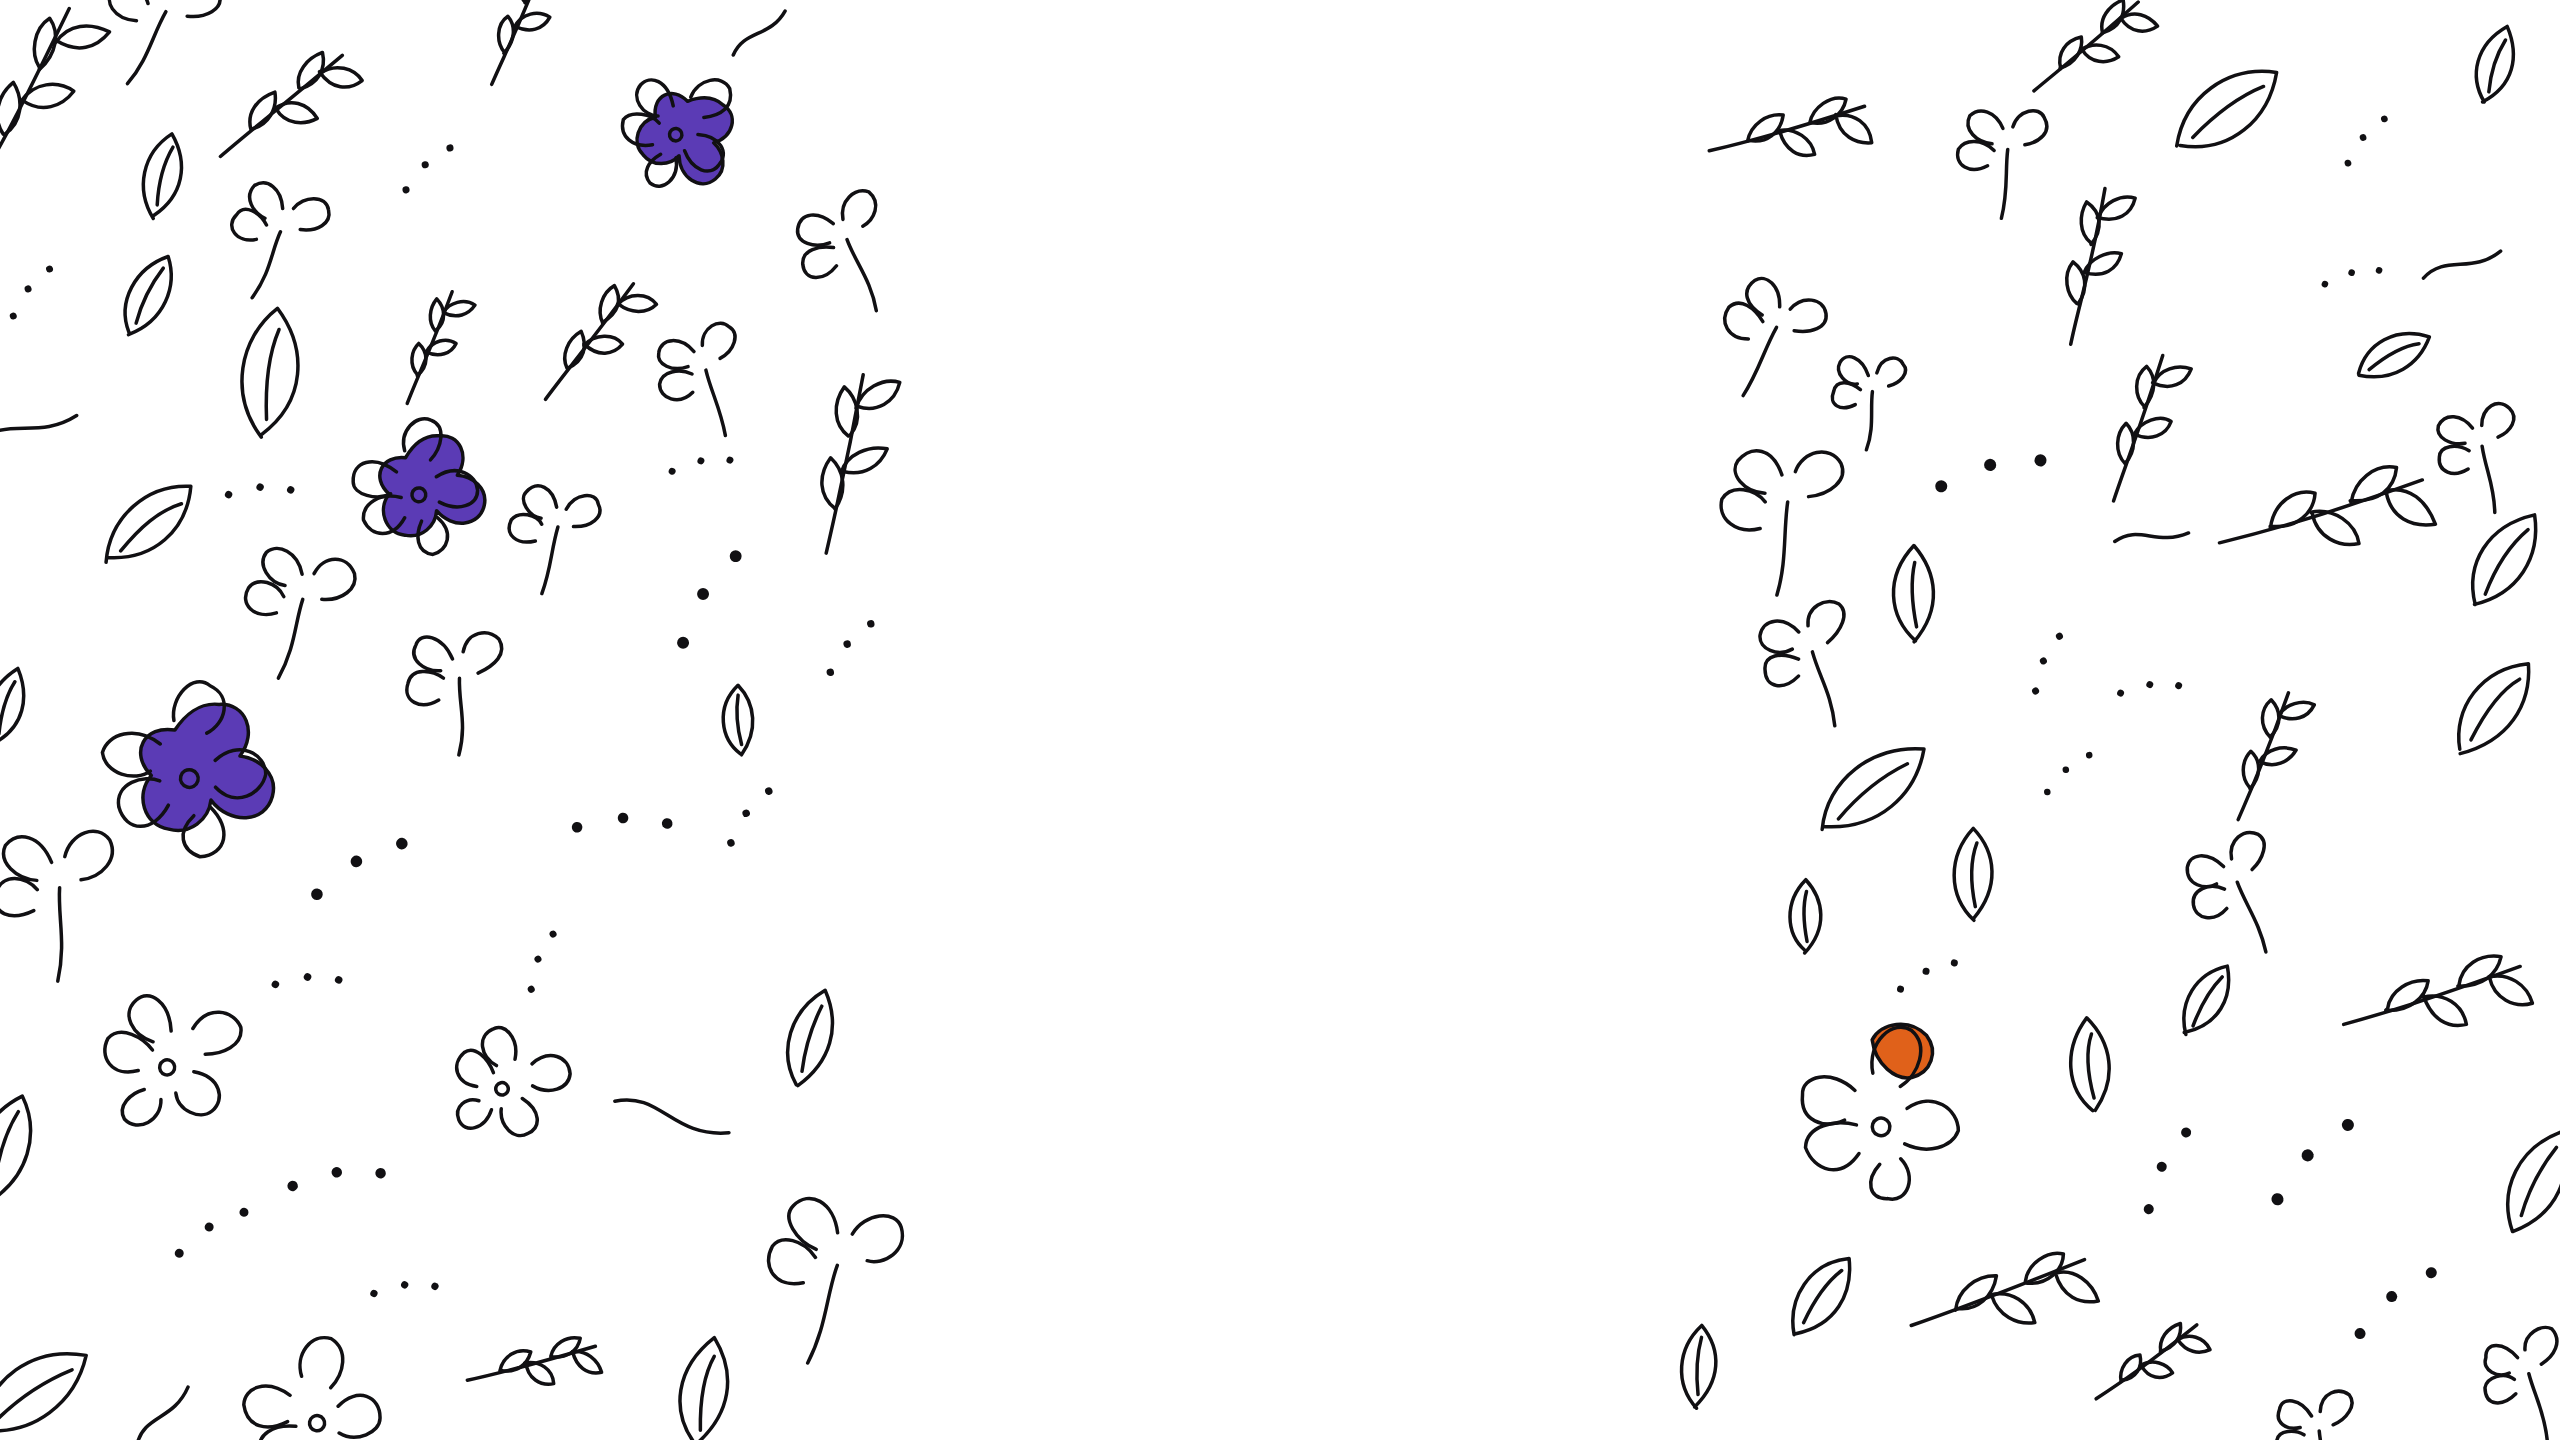
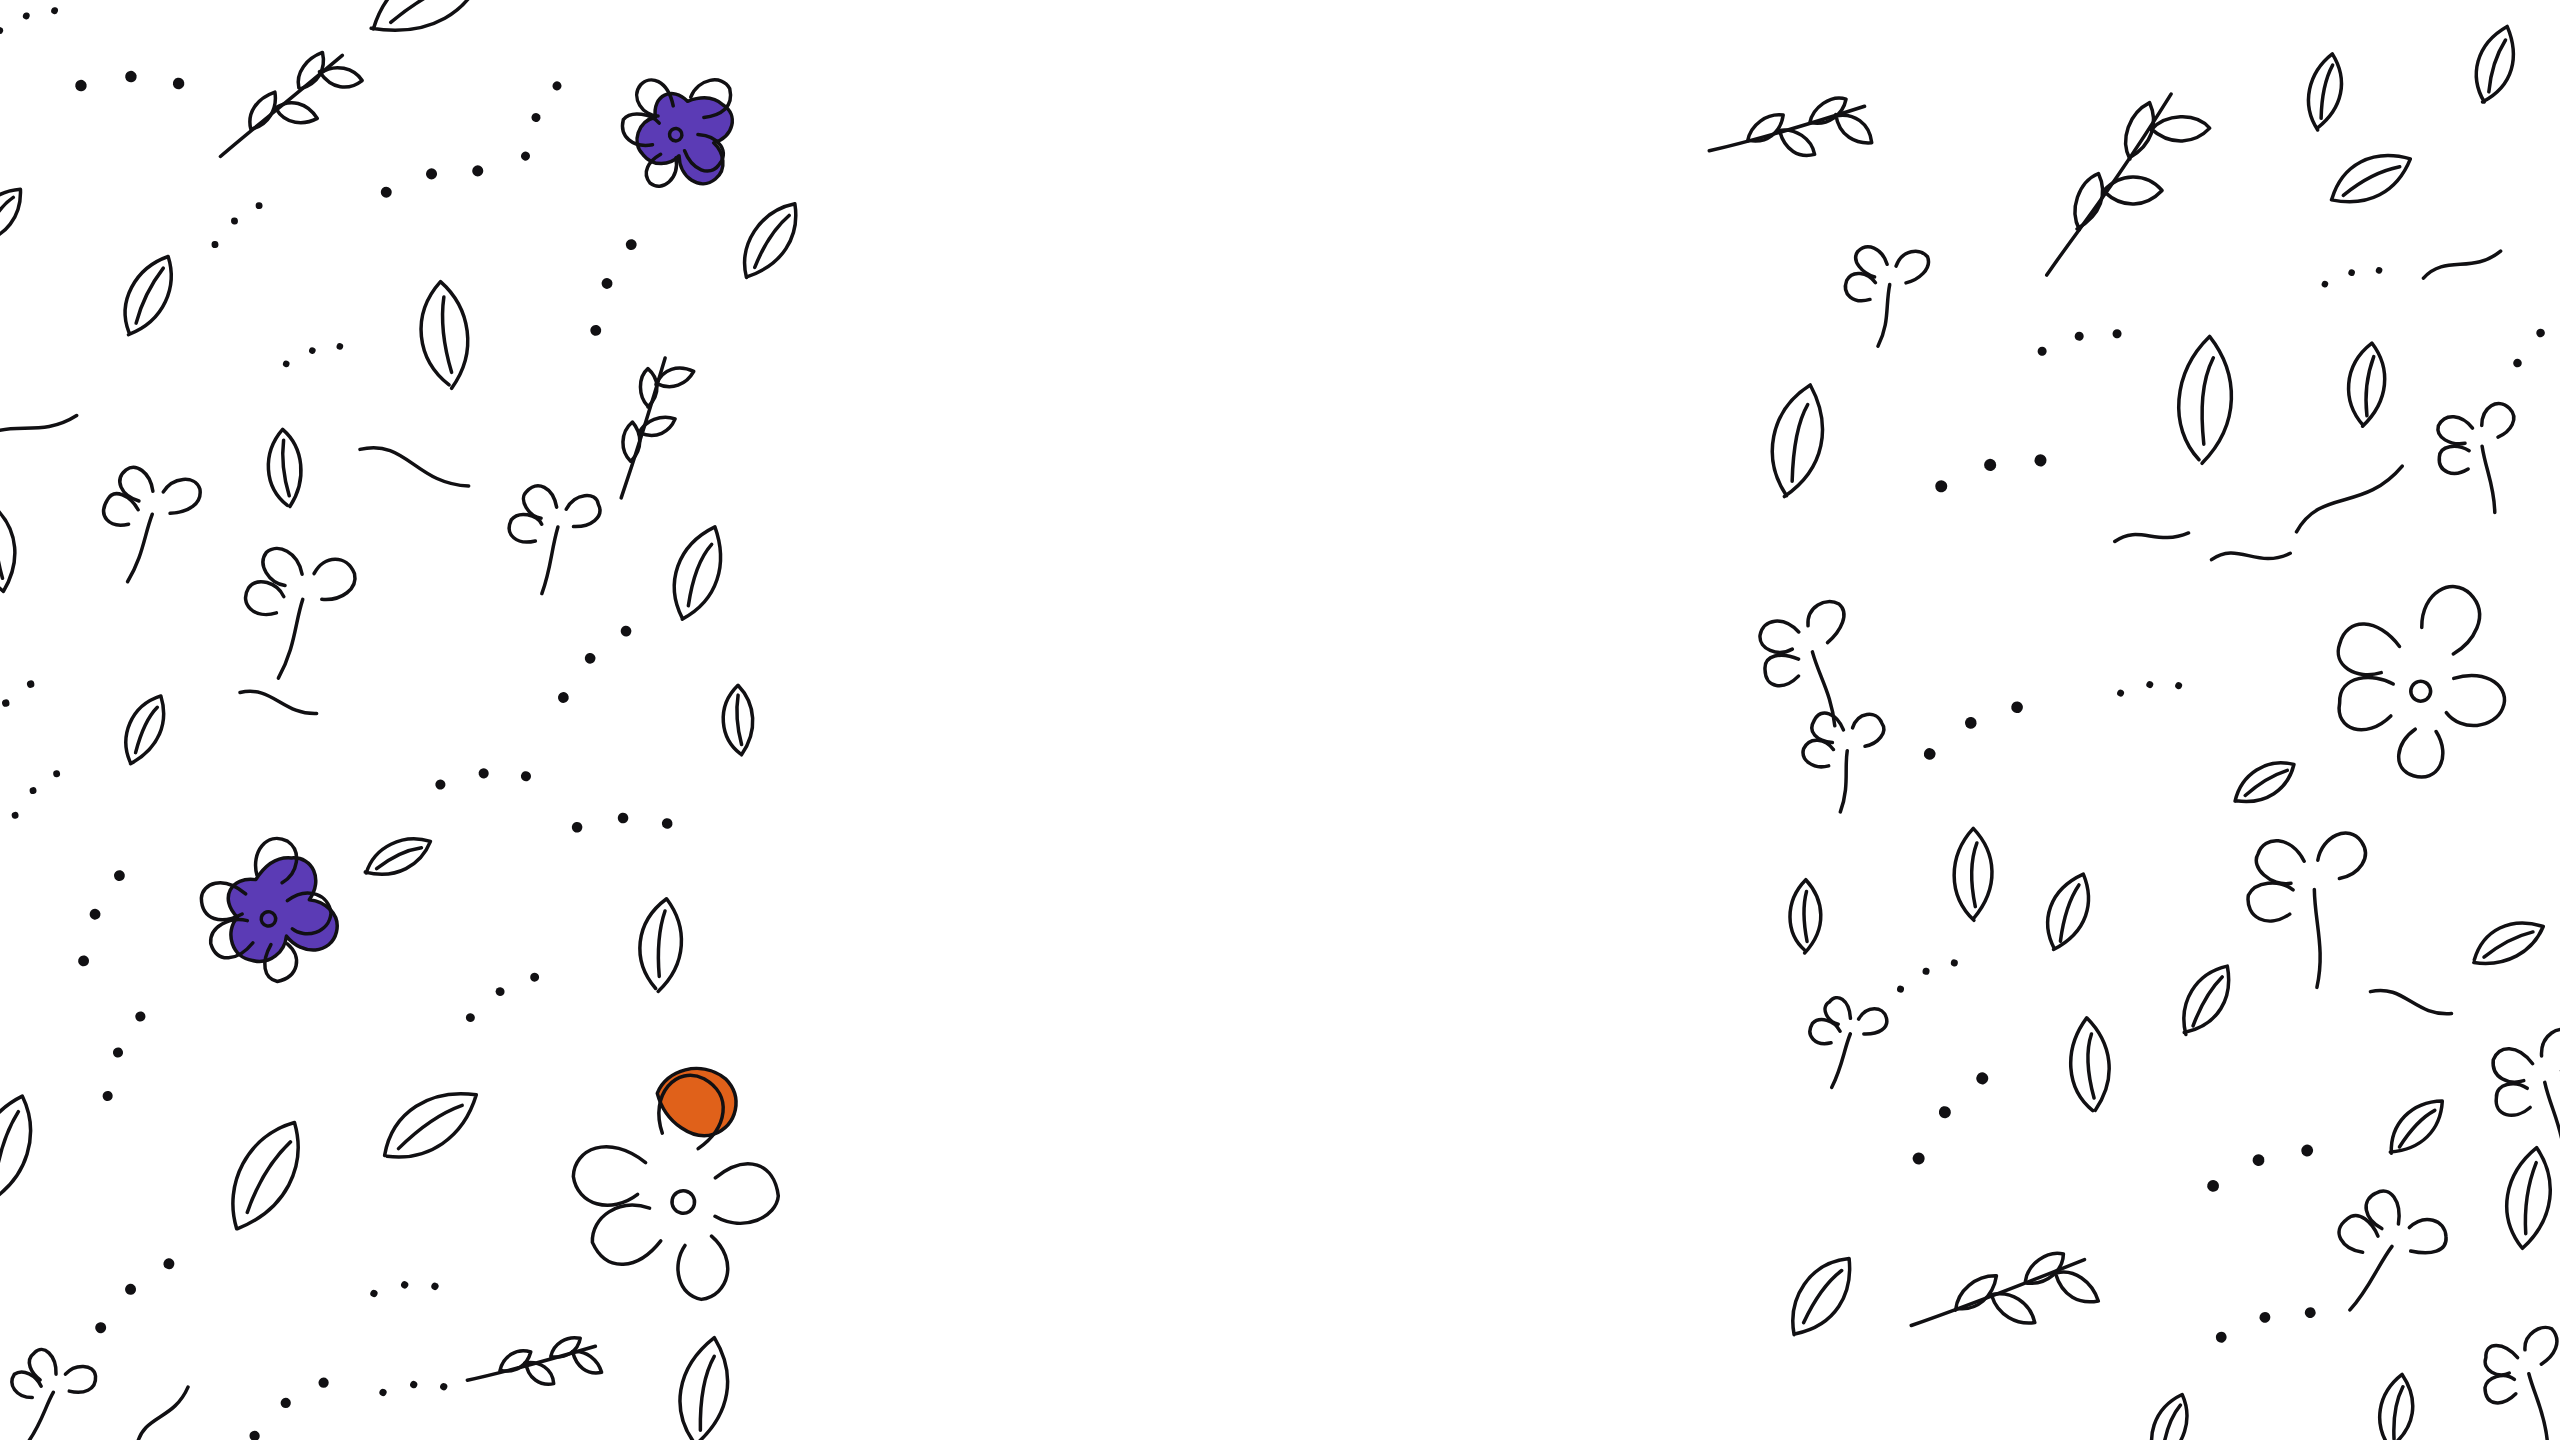
Laranda: imágenes de calificación (0–5 flores) y doodle con centro libre de 1000 px
Claude-Session: https://claude.ai/code/session_0139TfWapUP1QyepGUZapXLH

diff --git a/.fruti/icons/laranda/calificacion/gen.py b/.fruti/icons/laranda/calificacion/gen.py
@@ -1,0 +1,21 @@
+# Calificación en flores de Laranda: 0–5 lóbulos llenos; el quinto (lóbulo separado) solo en 5 y en accent.
+L=[(52.2,49.8),(80.8,44.8),(83.0,72.2),(64.0,86.0),(45.0,72.2)]
+TEMAS={'claro':dict(brand='#5B3BB5',accent='#E0611A',surface='#FFFFFF'),'oscuro':dict(brand='#C4B5F0',accent='#F2A074',surface='#1A191D')}
+def flor(n,t,css=False):
+    b=f'var(--brand, {t["brand"]})' if css else t['brand']; a=f'var(--accent, {t["accent"]})' if css else t['accent']; s=f'var(--surface, {t["surface"]})' if css else t['surface']
+    out=''
+    for i,(x,y) in enumerate(L):
+        lleno=i<n
+        if lleno:
+            col=a if (n==5 and i==1) else b
+            out+=f'<circle cx="{x}" cy="{y}" r="15" fill="{col}"/>'
+        else:
+            out+=f'<circle cx="{x}" cy="{y}" r="13.5" fill="none" stroke="{b}" stroke-width="3"/>'
+    out+=f'<circle cx="64" cy="66" r="7" fill="{s}" stroke="{b}" stroke-width="3"/>'
+    return f'<svg xmlns="http://www.w3.org/2000/svg" viewBox="0 0 128 128" width="128" height="128" role="img" aria-label="{n} de 5">{out}</svg>'
+for tn,t in TEMAS.items():
+    for n in range(6):
+        open(f'svg/calificacion-{n}-{tn}.svg','w').write(flor(n,t))
+# versión con variables CSS (una sola, toma el tema del contexto)
+for n in range(6): open(f'svg/calificacion-{n}.svg','w').write(flor(n,TEMAS['claro'],css=True))
+print('ok')

diff --git a/.fruti/illustrations/laranda-doodle/gen.py b/.fruti/illustrations/laranda-doodle/gen.py
@@ -96,7 +96,7 @@ def write(name,svg):
 seed=int(sys.argv[1]) if len(sys.argv)>1 else 7
 seed_t=int(sys.argv[2]) if len(sys.argv)>2 else 15
 # grande: trazo 3.5 px en 2560; el stroke se escala con el motivo, así que doy sw por motivo ≈ 3.5/scale medio
-g,n1=build(2560,1440,seed,n_target=95,sw=3.5,center_free=840,accents=(3,1),scale_rng=(1.0,1.9))
+g,n1=build(2560,1440,seed,n_target=95,sw=3.5,center_free=1000,accents=(3,1),scale_rng=(1.0,1.9))
 write('doodle-hero',g)
 t,n2=build(600,600,seed_t,n_target=16,sw=4,torus=True,accents=(1,0),scale_rng=(0.75,1.2))
 write('doodle-mosaico',t)

diff --git a/.fruti/icons/laranda/calificacion/LEEME.md b/.fruti/icons/laranda/calificacion/LEEME.md
@@ -1,0 +1,10 @@
+# Calificación en flores
+
+Imágenes de la calificación de Laranda: cinco lóbulos en vez de cinco estrellas. `calificacion-N` muestra N lóbulos llenos (0 a 5); el quinto, el lóbulo separado, solo se enciende con 5 y va en `accent`. Siempre acompañada del número escrito («4 de 5», «4.9 · 128 reseñas»).
+
+- `svg/calificacion-N.svg`: una sola versión con variables CSS (`--brand`, `--accent`, `--surface`) y fallback claro; toma el tema del contexto.
+- `svg/calificacion-N-claro.svg` y `-oscuro.svg`: colores fijos (claro: brand #5B3BB5, accent #E0611A, garganta #FFFFFF; oscuro: #C4B5F0, #F2A074, #1A191D).
+- `png/calificacion-N-{claro|oscuro}-{24|48|96|256}.png`: fondo transparente. 16–24 px en listas, 24 en la tarjeta, 36–48 en la entrada de calificación.
+- Regenerar: `python3 gen.py` y el script de captura.
+
+![Lámina](lamina.png)
